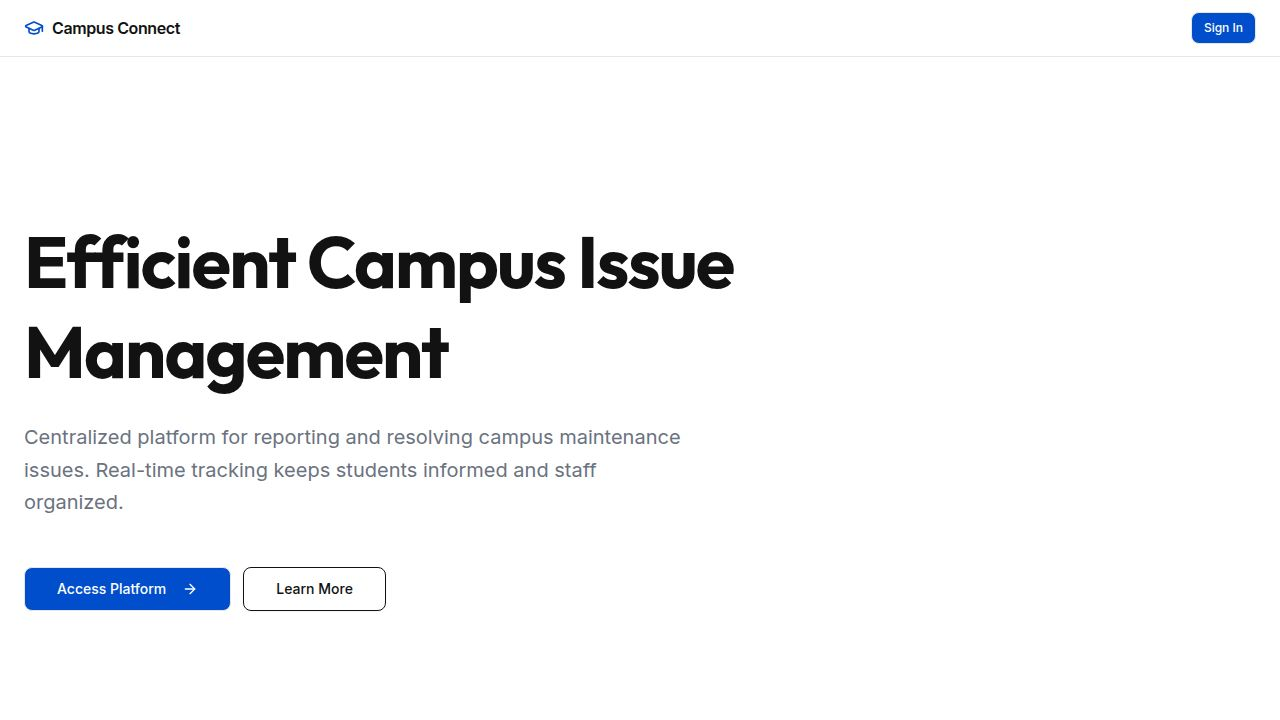
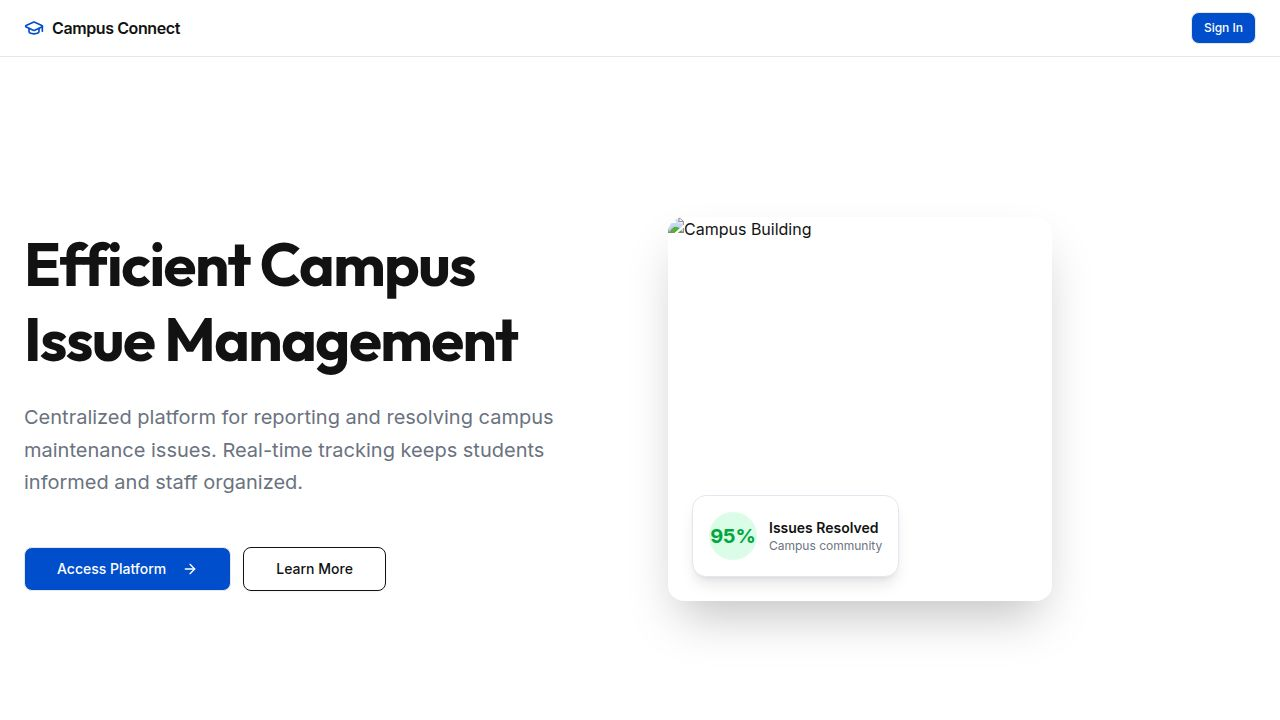
Update the main page layout with a new hero image and sections
Modify client/src/pages/Home.tsx to include a new hero image, update section titles, and adjust grid layout.

Replit-Commit-Author: Agent
Replit-Commit-Session-Id: 47ea4aee-1f18-4c60-ac1b-15aeb5316c40
Replit-Commit-Checkpoint-Type: full_checkpoint
Replit-Commit-Event-Id: 7492f254-199d-483a-a8d3-4a8246af74c8
Replit-Commit-Screenshot-Url: https://storage.googleapis.com/screenshot-production-us-central1/5c8f0a4d-e1c8-4472-a365-12eb0f9010e7/47ea4aee-1f18-4c60-ac1b-15aeb5316c40/HnfWb3P
Replit-Helium-Checkpoint-Created: true

diff --git a/client/src/pages/Home.tsx b/client/src/pages/Home.tsx
@@ -1,6 +1,6 @@
 import { Link } from 'wouter';
 import { Button } from '@/components/ui/button';
-import { GraduationCap, ArrowRight, CheckCircle2, Shield, Zap } from 'lucide-react';
+import { GraduationCap, ArrowRight, CheckCircle2, Zap, Shield, BookOpen, Users, Lock } from 'lucide-react';
 
 export default function Home() {
   return (
@@ -21,75 +21,146 @@ export default function Home() {
 
       <main className="flex-1">
         {/* Hero */}
-        <section className="w-full py-24 md:py-32 lg:py-40 border-b border-border bg-white dark:bg-slate-950 dark:border-slate-800">
-          <div className="container px-4 md:px-6 max-w-5xl">
-            <div className="space-y-8">
-              <div className="space-y-6">
-                <div>
-                  <h1 className="text-5xl md:text-6xl lg:text-7xl font-bold tracking-tight text-foreground font-heading leading-tight">
+        <section className="w-full py-20 md:py-32 lg:py-40 border-b border-border bg-white dark:bg-slate-950 dark:border-slate-800">
+          <div className="container px-4 md:px-6 max-w-6xl">
+            <div className="grid gap-12 lg:grid-cols-2 lg:gap-8 items-center">
+              <div className="space-y-8">
+                <div className="space-y-6">
+                  <h1 className="text-5xl md:text-6xl font-bold tracking-tight text-foreground font-heading leading-tight">
                     Efficient Campus Issue Management
                   </h1>
-                  <p className="mt-6 text-lg md:text-xl text-muted-foreground max-w-2xl leading-relaxed">
+                  <p className="text-lg md:text-xl text-muted-foreground leading-relaxed">
                     Centralized platform for reporting and resolving campus maintenance issues. Real-time tracking keeps students informed and staff organized.
                   </p>
                 </div>
-              </div>
-              <div className="flex flex-col sm:flex-row gap-3 pt-4">
-                <Link href="/login">
-                  <Button size="lg" className="h-11 px-8">
-                    Access Platform <ArrowRight className="ml-2 h-4 w-4" />
+                <div className="flex flex-col sm:flex-row gap-3 pt-4">
+                  <Link href="/login">
+                    <Button size="lg" className="h-11 px-8">
+                      Access Platform <ArrowRight className="ml-2 h-4 w-4" />
+                    </Button>
+                  </Link>
+                  <Button variant="outline" size="lg" className="h-11 px-8">
+                    Learn More
                   </Button>
-                </Link>
-                <Button variant="outline" size="lg" className="h-11 px-8">
-                  Learn More
-                </Button>
+                </div>
+              </div>
+
+              {/* Hero Image with Stat */}
+              <div className="relative flex items-center justify-center">
+                <div className="relative w-full aspect-square max-w-sm">
+                  <img 
+                    src="https://images.unsplash.com/photo-1564629238117-45e9d194e19f?w=500&h=600&fit=crop"
+                    alt="Campus Building"
+                    className="w-full h-full object-cover rounded-2xl shadow-2xl"
+                  />
+                  {/* Stat Badge */}
+                  <div className="absolute bottom-6 left-6 bg-white dark:bg-slate-900 rounded-xl p-4 shadow-lg border border-slate-200 dark:border-slate-700">
+                    <div className="flex items-center gap-3">
+                      <div className="flex-shrink-0">
+                        <div className="w-12 h-12 rounded-full bg-green-100 dark:bg-green-900/30 flex items-center justify-center">
+                          <span className="text-xl font-bold text-green-600 dark:text-green-400">95%</span>
+                        </div>
+                      </div>
+                      <div>
+                        <p className="text-sm font-semibold text-foreground">Issues Resolved</p>
+                        <p className="text-xs text-muted-foreground">Campus community</p>
+                      </div>
+                    </div>
+                  </div>
+                </div>
               </div>
             </div>
           </div>
         </section>
 
-        {/* Features */}
+        {/* Everything You Need */}
         <section className="w-full py-20 md:py-28 border-b border-border bg-slate-50 dark:bg-slate-900/30 dark:border-slate-800">
           <div className="container px-4 md:px-6 max-w-5xl">
             <div className="mb-12">
               <h2 className="text-3xl md:text-4xl font-bold tracking-tight text-foreground font-heading">
-                How It Works
+                Everything You Need
               </h2>
               <p className="mt-2 text-muted-foreground">
-                Simple workflow designed for your campus community
+                Comprehensive tools for managing campus issues efficiently
               </p>
             </div>
             <div className="grid gap-8 md:grid-cols-3">
-              <div className="space-y-4">
-                <div className="inline-flex items-center justify-center w-12 h-12 rounded-lg bg-primary/10 text-primary">
+              <div className="space-y-4 p-6 rounded-xl bg-white dark:bg-slate-900/50 border border-slate-200 dark:border-slate-800">
+                <div className="inline-flex items-center justify-center w-12 h-12 rounded-lg bg-orange-100 dark:bg-orange-900/30 text-orange-600 dark:text-orange-400">
                   <CheckCircle2 className="h-6 w-6" />
                 </div>
                 <div>
                   <h3 className="font-semibold text-lg">Report Issues</h3>
                   <p className="mt-2 text-sm text-muted-foreground leading-relaxed">
-                    Students submit detailed issue reports with location, category, and priority levels.
+                    Submit detailed issue reports with location, category, and priority levels with AI-powered categorization.
                   </p>
                 </div>
               </div>
-              <div className="space-y-4">
-                <div className="inline-flex items-center justify-center w-12 h-12 rounded-lg bg-primary/10 text-primary">
+              <div className="space-y-4 p-6 rounded-xl bg-white dark:bg-slate-900/50 border border-slate-200 dark:border-slate-800">
+                <div className="inline-flex items-center justify-center w-12 h-12 rounded-lg bg-blue-100 dark:bg-blue-900/30 text-blue-600 dark:text-blue-400">
                   <Zap className="h-6 w-6" />
                 </div>
                 <div>
-                  <h3 className="font-semibold text-lg">Track Progress</h3>
+                  <h3 className="font-semibold text-lg">Staff Management</h3>
                   <p className="mt-2 text-sm text-muted-foreground leading-relaxed">
-                    Real-time status updates keep everyone informed throughout the resolution process.
+                    Staff members report issues and track their submissions with real-time status updates.
                   </p>
                 </div>
               </div>
-              <div className="space-y-4">
-                <div className="inline-flex items-center justify-center w-12 h-12 rounded-lg bg-primary/10 text-primary">
+              <div className="space-y-4 p-6 rounded-xl bg-white dark:bg-slate-900/50 border border-slate-200 dark:border-slate-800">
+                <div className="inline-flex items-center justify-center w-12 h-12 rounded-lg bg-green-100 dark:bg-green-900/30 text-green-600 dark:text-green-400">
                   <Shield className="h-6 w-6" />
                 </div>
                 <div>
-                  <h3 className="font-semibold text-lg">Manage Efficiently</h3>
+                  <h3 className="font-semibold text-lg">Analytics Dashboard</h3>
                   <p className="mt-2 text-sm text-muted-foreground leading-relaxed">
-                    Staff and admins assign, prioritize, and resolve issues with a unified dashboard.
+                    Admins oversee all campus issues, monitor status, and view comprehensive analytics.
+                  </p>
+                </div>
+              </div>
+            </div>
+          </div>
+        </section>
+
+        {/* Built for Everyone */}
+        <section className="w-full py-20 md:py-28 border-b border-border bg-white dark:bg-slate-950 dark:border-slate-800">
+          <div className="container px-4 md:px-6 max-w-5xl">
+            <div className="mb-12">
+              <h2 className="text-3xl md:text-4xl font-bold tracking-tight text-foreground font-heading">
+                Built for Everyone
+              </h2>
+            </div>
+            <div className="grid gap-8 md:grid-cols-3">
+              <div className="space-y-4 p-8 rounded-xl bg-slate-50 dark:bg-slate-900/50 border border-slate-200 dark:border-slate-800">
+                <div className="inline-flex items-center justify-center w-10 h-10 rounded-full bg-blue-100 dark:bg-blue-900/30">
+                  <BookOpen className="h-5 w-5 text-blue-600 dark:text-blue-400" />
+                </div>
+                <div>
+                  <h3 className="font-semibold text-lg">Students</h3>
+                  <p className="mt-2 text-sm text-muted-foreground leading-relaxed">
+                    Report campus issues and track their status in real-time with AI-powered categorization.
+                  </p>
+                </div>
+              </div>
+              <div className="space-y-4 p-8 rounded-xl bg-slate-50 dark:bg-slate-900/50 border border-slate-200 dark:border-slate-800">
+                <div className="inline-flex items-center justify-center w-10 h-10 rounded-full bg-amber-100 dark:bg-amber-900/30">
+                  <Users className="h-5 w-5 text-amber-600 dark:text-amber-400" />
+                </div>
+                <div>
+                  <h3 className="font-semibold text-lg">Staff</h3>
+                  <p className="mt-2 text-sm text-muted-foreground leading-relaxed">
+                    Report and track issues, manage maintenance operations with priority-based workflow.
+                  </p>
+                </div>
+              </div>
+              <div className="space-y-4 p-8 rounded-xl bg-slate-50 dark:bg-slate-900/50 border border-slate-200 dark:border-slate-800">
+                <div className="inline-flex items-center justify-center w-10 h-10 rounded-full bg-red-100 dark:bg-red-900/30">
+                  <Lock className="h-5 w-5 text-red-600 dark:text-red-400" />
+                </div>
+                <div>
+                  <h3 className="font-semibold text-lg">Administrators</h3>
+                  <p className="mt-2 text-sm text-muted-foreground leading-relaxed">
+                    Monitor all campus issues, analyze trends, and maintain system oversight.
                   </p>
                 </div>
               </div>
@@ -98,17 +169,17 @@ export default function Home() {
         </section>
 
         {/* CTA */}
-        <section className="w-full py-20 md:py-28 bg-white dark:bg-slate-950">
+        <section className="w-full py-20 md:py-28 bg-slate-900 dark:bg-black text-white">
           <div className="container px-4 md:px-6 max-w-3xl text-center space-y-6">
-            <h2 className="text-3xl md:text-4xl font-bold tracking-tight text-foreground font-heading">
-              Ready to streamline campus operations?
+            <h2 className="text-3xl md:text-4xl font-bold tracking-tight font-heading">
+              Ready to Improve Your Campus?
             </h2>
-            <p className="text-lg text-muted-foreground">
-              Join students and staff in creating a more responsive campus community.
+            <p className="text-lg text-slate-300">
+              Join students and staff in creating a more responsive campus community. Start managing issues efficiently today.
             </p>
             <div className="pt-4">
               <Link href="/login">
-                <Button size="lg" className="h-11 px-8">
+                <Button size="lg" className="h-11 px-8 bg-white text-slate-900 hover:bg-slate-100">
                   Get Started Now
                 </Button>
               </Link>
@@ -117,12 +188,12 @@ export default function Home() {
         </section>
       </main>
 
-      <footer className="border-t border-border bg-slate-50 dark:bg-slate-900/50 dark:border-slate-800">
-        <div className="container px-4 md:px-6 h-16 flex items-center justify-between text-sm text-muted-foreground">
+      <footer className="border-t border-slate-800 bg-slate-900 dark:bg-black text-slate-400">
+        <div className="container px-4 md:px-6 h-16 flex items-center justify-between text-sm">
           <p>© 2024 Campus Connect. All rights reserved.</p>
           <nav className="flex gap-6">
-            <Link href="#"><a className="hover:text-foreground transition-colors">Terms</a></Link>
-            <Link href="#"><a className="hover:text-foreground transition-colors">Privacy</a></Link>
+            <Link href="#"><a className="hover:text-white transition-colors">Terms</a></Link>
+            <Link href="#"><a className="hover:text-white transition-colors">Privacy</a></Link>
           </nav>
         </div>
       </footer>
